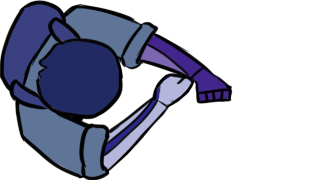
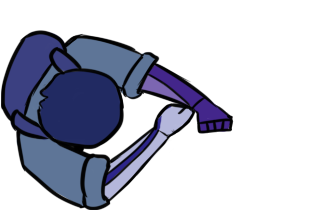
Texsture Gun added, Player remodeled

diff --git a/weapons/base.py b/weapons/base.py
@@ -3,6 +3,7 @@ from drawable_objects.bullet import BULLET_CLASS
 from geometry.point import Point
 from geometry.segment import Segment
 from geometry.vector import vector_from_length_angle
+from utils.image import ImageManager
 from utils.sound import SoundManager
 from random import randrange
 
@@ -21,7 +22,7 @@ class Weapon(GameSprite):
         self.owner = owner
         self.pos = owner.pos
         self.angle = owner.angle
-        super().__init__(owner.scene, owner.controller, 'moving_objects.bullet.1', self.pos, self.angle)
+        super().__init__(owner.scene, owner.controller, 'other.gun', self.pos, self.angle, owner.IMAGE_ZOOM * 2)
         self.is_automatic = is_automatic
         self.main_attack_interval = main_attack_interval
         self.combo_attack_interval = combo_attack_interval
@@ -160,6 +161,26 @@ class RangedWeapon(Weapon):
             bullet = BULLET_CLASS[self.ammo_type](self, pos, angle + randrange(-100, 100) /
                                                     (self.accuracy ** 2 - self.accuracy * 20 + 100))
             self.scene.game_objects.append(bullet)
+
+    def process_draw(self):
+        """
+        Отрисовка объекта в относительных координатах
+
+        Если объект вне экрана, он не отрисовывается
+        relative_center: центр относительных координат
+        """
+        if self.owner.__class__.__name__ == 'Enemy':
+            return
+        pos = self.owner.pos + vector_from_length_angle(20, self.owner.angle)
+        relative_center = self.scene.relative_center
+        relative_pos = pos - relative_center
+
+        if ImageManager.is_out_of_screen(self.image_name, self.zoom,
+                                         relative_pos, self.scene.game.screen_rectangle):
+            return
+
+        ImageManager.process_draw(self.image_name, relative_pos,
+                                  self.scene.screen, self.zoom, self.angle, self.rotation_offset)
 
     @property
     def is_fired_this_tick(self):

diff --git a/drawable_objects/player.py b/drawable_objects/player.py
@@ -25,7 +25,8 @@ class Player(Humanoid):
     """
 
     ADD_TO_GAME_PLANE = True
-    IMAGE_NAME = 'moving_objects.player'
+    #IMAGE_NAME = 'moving_objects.player'
+    IMAGE_NAME = 'other.person-up_without_weapon'
     IMAGE_ZOOM = 0.25
     CONTROLS = [
         pygame.K_d,
@@ -133,7 +134,7 @@ class Player(Humanoid):
         self.weapon = self.arsenal[ind]
         self.weapon.enabled = True
         self.scene.game_objects.append(self.weapon)
-        self.weapon.cooldown = 30
+        self.weapon.cooldown = 20
 
     def _pos_after_pull_from_walls(self, player_pos: Point) -> Point:
         """
